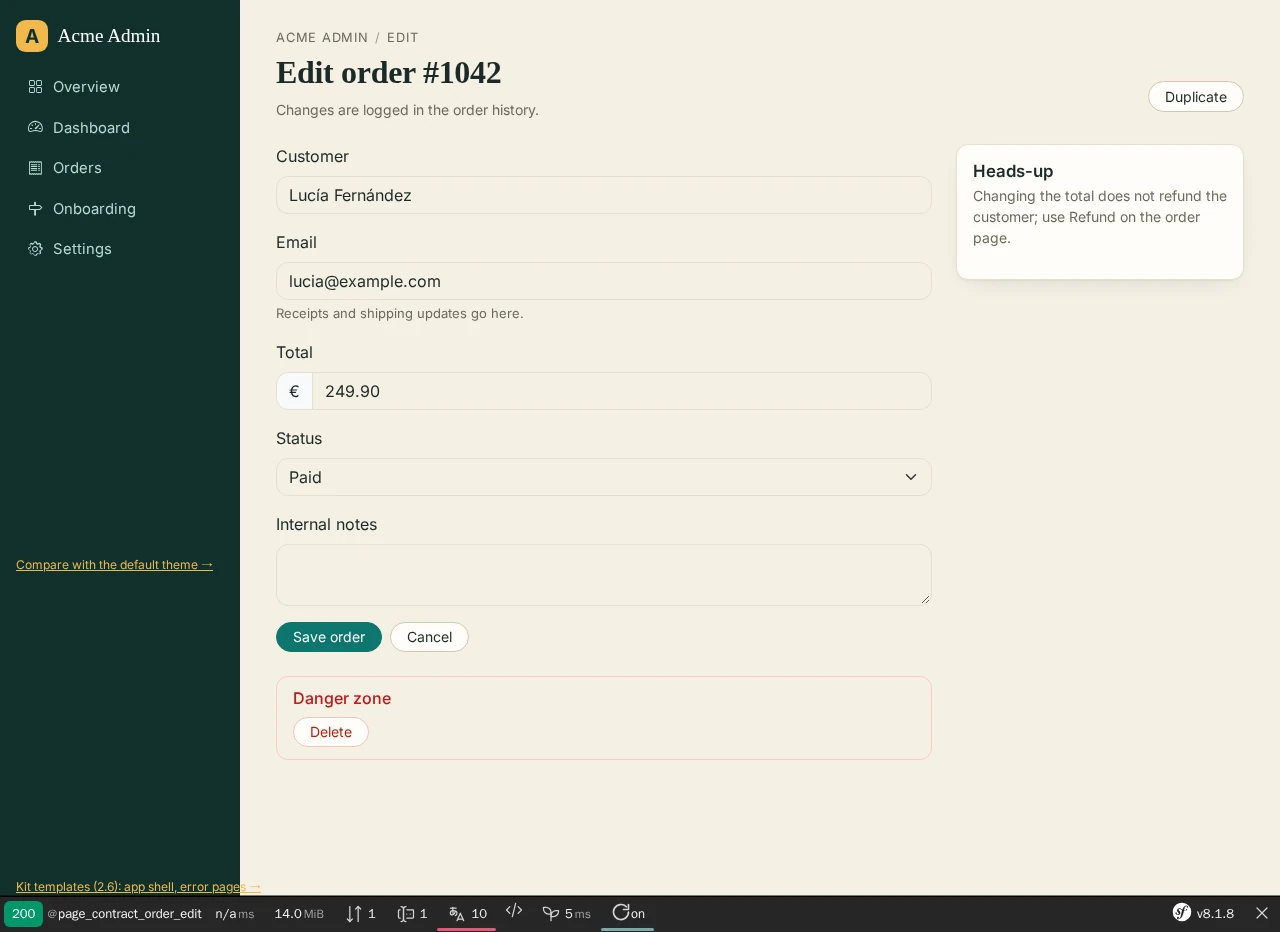
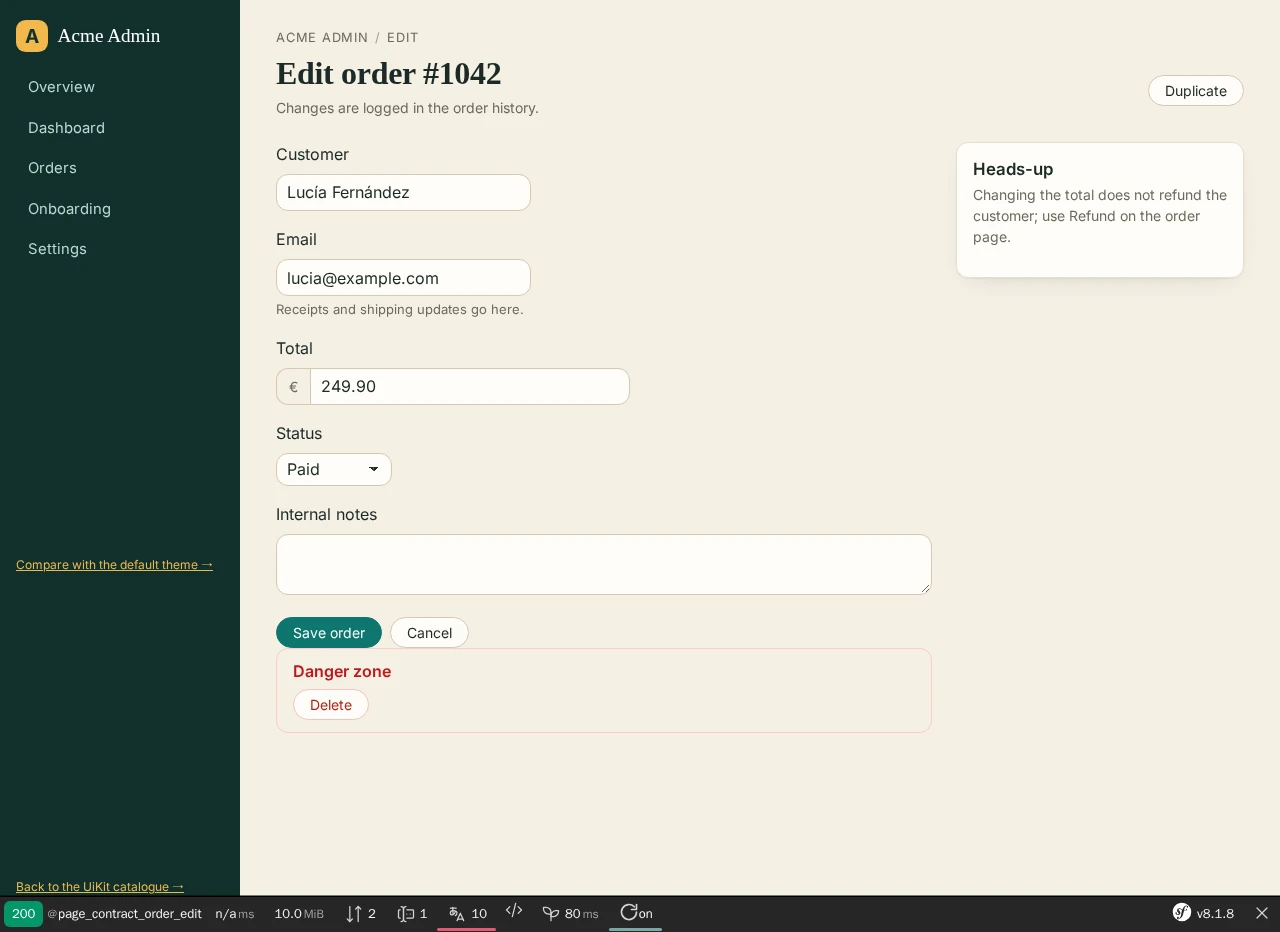
fix(form): stack the label above its control without a CSS framework (#144)
* fix(form): stack the label above its control without a CSS framework

The UiKit form theme (form/nowo_ui_layout.html.twig) never stacked a text,
select or textarea row on its own: the label (no class) and the
`nowo-ui-input` control (inline-block) shared a line, and Bootstrap's
`.form-control` (a block) hid it. 29ce390 (#132, 2.62.0) moved the demo from
Bootstrap + bootstrap_5_layout to this theme with no framework, and the
host-theme form, settings and wizard pages printed "Customer" against its
field, "Total€" with no input group and selects inline.

Every row of the theme now carries `nowo-ui-form-row` (checkbox / radio rows
already did); nowo-ui.css makes the label of a non-check row a block as wide
as its text, --nowo-ui-form-label-gap above the control, at zero
specificity. Money and percent widgets put their symbol in a
`nowo-ui-input-group`. Regression check: label / control geometry on the
host and default theme form pages in page-contract.spec.ts.

* docs(demo): regenerate the page-contract form, settings and wizard screenshots

Taken with the form-row fix, so the three host-theme images show stacked
labels and the money input group again.

diff --git a/demo/symfony8/e2e/tests/page-contract.spec.ts b/demo/symfony8/e2e/tests/page-contract.spec.ts
@@ -77,6 +77,56 @@ test.describe('page contract — host theme', () => {
   });
 });
 
+/**
+ * UiKit 2.66.2 — regression of 2.62.0 (#132, the demo left Bootstrap and bootstrap_5_layout for the UiKit form theme
+ * without a framework): every text / select / textarea row of the UiKit form theme stacks its label above its control,
+ * on the host theme and on the default theme, and the money symbol sits in an input group. Geometry, not a screenshot.
+ */
+const stackedFormPages: Array<{ name: string; path: string }> = [
+  { name: 'host form', path: '/page-contract/orders/1042/edit' },
+  { name: 'host settings', path: '/page-contract/settings' },
+  { name: 'host wizard', path: '/page-contract/onboarding' },
+  { name: 'default form', path: '/page-contract/default/orders/1042/edit' },
+  { name: 'default settings', path: '/page-contract/default/settings' },
+];
+
+test.describe('page contract — form rows stack their label above the control (2.66.2)', () => {
+  for (const { name, path } of stackedFormPages) {
+    test(`${name}: label above its control, left-aligned, not overlapping`, async ({ page }) => {
+      await page.goto(path);
+      const rows = await page.evaluate(() =>
+        Array.from(document.querySelectorAll('form .nowo-ui-form-row:not(.nowo-ui-form-row--check)'))
+          .map((row) => {
+            const label = row.querySelector(':scope > label');
+            const control = row.querySelector(':scope > :is(input, select, textarea, .nowo-ui-input-group, div[id])');
+            if (!label || !control) {
+              return null;
+            }
+            const l = label.getBoundingClientRect();
+            const c = control.getBoundingClientRect();
+            return { label: (label.textContent ?? '').trim(), labelBottom: l.bottom, labelLeft: l.left, controlTop: c.top, controlLeft: c.left };
+          })
+          .filter((row) => row !== null),
+      );
+      expect(rows.length, 'text rows on the page').toBeGreaterThan(0);
+      for (const row of rows) {
+        expect(row!.labelBottom, `${row!.label}: label ends above its control`).toBeLessThanOrEqual(row!.controlTop + 0.5);
+        expect(Math.abs(row!.labelLeft - row!.controlLeft), `${row!.label}: label and control share the left edge`).toBeLessThanOrEqual(1);
+      }
+    });
+  }
+
+  test('host form: the money field puts its currency in an input group', async ({ page }) => {
+    await page.goto('/page-contract/orders/1042/edit');
+    const group = page.locator('.nowo-ui-input-group:has(> #order_total)');
+    await expect(group).toBeVisible();
+    await expect(group.locator('> .nowo-ui-input-group__addon')).toHaveText('€');
+    const [addon, input] = [await group.locator('> .nowo-ui-input-group__addon').boundingBox(), await page.locator('#order_total').boundingBox()];
+    expect(Math.abs(addon!.y - input!.y)).toBeLessThanOrEqual(1);
+    expect(addon!.x + addon!.width).toBeLessThanOrEqual(input!.x + 1);
+  });
+});
+
 test.describe('page contract — validation follow-ups (REQ-UI-003)', () => {
   test('cascade layers: a host utility (@layer utilities) in a slot beats the kit (@layer nowo-ui)', async ({ page }) => {
     await page.goto('/page-contract/dashboard');

diff --git a/src/Resources/public/css/nowo-ui.css b/src/Resources/public/css/nowo-ui.css
@@ -7542,6 +7542,16 @@ li:has(> :is(a, span) + button.nowo-ui-tree__toggle) > :not(a, span, button.nowo
   margin-bottom: var(--nowo-ui-form-label-gap, 0.5rem);
 }
 
+/* 2.66.2: a row of the UiKit form theme (`nowo-ui-form-row`, @NowoUiKit/form/nowo_ui_layout.html.twig) stacks its
+   label above its control on every stack, with no framework class on either: the label is a block as wide as its
+   text (only the text is the click target), --nowo-ui-form-label-gap above the control. Checkbox / radio rows keep
+   the box beside its text. Zero specificity: a host row / label class wins. */
+:where(.nowo-ui-form-row:not(.nowo-ui-form-row--check)) > :where(label) {
+  display: block;
+  inline-size: fit-content;
+  margin-block-end: var(--nowo-ui-form-label-gap, 0.5rem);
+}
+
 .nowo-ui-form__columns {
   display: grid;
   grid-template-columns: repeat(auto-fit, minmax(min(var(--nowo-ui-form-column-min, 12rem), 100%), 1fr));

diff --git a/src/Resources/public/css/nowo-ui.unlayered.css b/src/Resources/public/css/nowo-ui.unlayered.css
@@ -7527,6 +7527,16 @@ li:has(> :is(a, span) + button.nowo-ui-tree__toggle) > :not(a, span, button.nowo
   margin-bottom: var(--nowo-ui-form-label-gap, 0.5rem);
 }
 
+/* 2.66.2: a row of the UiKit form theme (`nowo-ui-form-row`, @NowoUiKit/form/nowo_ui_layout.html.twig) stacks its
+   label above its control on every stack, with no framework class on either: the label is a block as wide as its
+   text (only the text is the click target), --nowo-ui-form-label-gap above the control. Checkbox / radio rows keep
+   the box beside its text. Zero specificity: a host row / label class wins. */
+:where(.nowo-ui-form-row:not(.nowo-ui-form-row--check)) > :where(label) {
+  display: block;
+  inline-size: fit-content;
+  margin-block-end: var(--nowo-ui-form-label-gap, 0.5rem);
+}
+
 .nowo-ui-form__columns {
   display: grid;
   grid-template-columns: repeat(auto-fit, minmax(min(var(--nowo-ui-form-column-min, 12rem), 100%), 1fr));

diff --git a/tests/Unit/PageContract/FormThemeRowSpacingTest.php b/tests/Unit/PageContract/FormThemeRowSpacingTest.php
@@ -9,6 +9,8 @@ use PHPUnit\Framework\TestCase;
 use Symfony\Component\Form\Extension\Core\Type\CheckboxType;
 use Symfony\Component\Form\Extension\Core\Type\FileType;
 use Symfony\Component\Form\Extension\Core\Type\FormType;
+use Symfony\Component\Form\Extension\Core\Type\MoneyType;
+use Symfony\Component\Form\Extension\Core\Type\PercentType;
 use Symfony\Component\Form\Extension\Core\Type\TextType;
 use Symfony\Component\Form\FormError;
 
@@ -44,15 +46,15 @@ final class FormThemeRowSpacingTest extends TestCase
         $template = ['t' => "{% form_theme form '".self::THEME."' %}{{ form_row(form.name) }}{{ form_row(form.agree) }}{{ form_row(form.again) }}{{ form_row(form.dup) }}"];
         $html = PageContractTwig::create($template, [], 'bootstrap5')->render('t', ['form' => $form->createView()]);
 
-        self::assertStringContainsString('<div class="mb-3"><label for="item_name">', $html);
+        self::assertStringContainsString('<div class="nowo-ui-form-row mb-3"><label for="item_name">', $html);
         self::assertMatchesRegularExpression('#<div class="nowo-ui-form-row nowo-ui-form-row--check mb-3">\s*<label class="nowo-ui-check form-check"><input type="checkbox" id="item_agree"#', $html);
         self::assertMatchesRegularExpression('#<div class="mb-3 nowo-ui-form-row nowo-ui-form-row--check">\s*<label class="nowo-ui-check form-check"><input type="checkbox" id="item_again"#', $html);
-        self::assertStringContainsString('<div class="mb-3 wide"><label for="item_dup">', $html);
+        self::assertStringContainsString('<div class="mb-3 wide nowo-ui-form-row"><label for="item_dup">', $html);
         self::assertSame(0, substr_count($html, 'mb-3 mb-3'));
 
-        // custom / none: unchanged (no row class)
+        // custom / none: no slot class, only the kit row class (2.66.2)
         $html = PageContractTwig::create($template, [], 'none')->render('t', ['form' => $form->createView()]);
-        self::assertStringContainsString('<div><label for="item_name">', $html);
+        self::assertStringContainsString('<div class="nowo-ui-form-row"><label for="item_name">', $html);
         self::assertMatchesRegularExpression('#<div class="nowo-ui-form-row nowo-ui-form-row--check">\s*<label class="nowo-ui-check">#', $html);
     }
 
@@ -79,5 +81,46 @@ final class FormThemeRowSpacingTest extends TestCase
             $css = (string) file_get_contents(\dirname(__DIR__, 3).'/src/Resources/public/css/'.$file);
             self::assertStringContainsString("form.nowo-ui-filters[data-nowo-ui-region] > .nowo-ui-filters__field.mb-3 {\n  margin-bottom: 0 !important;\n}", $css, $file);
         }
+    }
+
+    /**
+     * 2.66.2 (regression of 2.62.0, #132): without a CSS framework every row stacks its label above its control. The
+     * row carries `nowo-ui-form-row` once (never twice when the bundle passes it in row_attr) and nowo-ui.css makes
+     * the label of a text row a block; checkbox / radio rows keep the box beside its text.
+     */
+    public function testTextRowsCarryTheKitRowClassAndTheCssStacksTheirLabel(): void
+    {
+        $form = PageContractTwig::forms()->createNamedBuilder('item', FormType::class)
+            ->add('name', TextType::class, ['required' => false, 'row_attr' => ['class' => 'nowo-ui-form-row']])
+            ->getForm();
+        $template = ['t' => "{% form_theme form '".self::THEME."' %}{{ form_row(form.name) }}"];
+        foreach (['none', 'custom', 'tailwind', 'bootstrap5'] as $framework) {
+            $html = PageContractTwig::create($template, [], $framework)->render('t', ['form' => $form->createView()]);
+            self::assertSame(1, substr_count($html, 'nowo-ui-form-row'), $framework);
+        }
+
+        foreach (['nowo-ui.unlayered.css', 'nowo-ui.css'] as $file) {
+            $css = (string) file_get_contents(\dirname(__DIR__, 3).'/src/Resources/public/css/'.$file);
+            self::assertStringContainsString(":where(.nowo-ui-form-row:not(.nowo-ui-form-row--check)) > :where(label) {\n  display: block;\n  inline-size: fit-content;\n  margin-block-end: var(--nowo-ui-form-label-gap, 0.5rem);\n}", $css, $file);
+        }
+    }
+
+    /** 2.66.2: money and percent symbols sit in a kit input group, not as bare text between the label and the input. */
+    public function testMoneyAndPercentWidgetsUseTheInputGroup(): void
+    {
+        $form = PageContractTwig::forms()->createNamedBuilder('item', FormType::class)
+            ->add('total', MoneyType::class, ['required' => false, 'currency' => 'EUR'])
+            ->add('rate', PercentType::class, ['required' => false])
+            ->add('plain', PercentType::class, ['required' => false, 'symbol' => false])
+            ->getForm();
+        $template = ['t' => "{% form_theme form '".self::THEME."' %}{{ form_widget(form.total) }}|{{ form_widget(form.rate) }}|{{ form_widget(form.plain) }}"];
+        $html = PageContractTwig::create($template, [], 'custom')->render('t', ['form' => $form->createView()]);
+        [$total, $rate, $plain] = explode('|', $html);
+
+        self::assertMatchesRegularExpression('#^<div class="nowo-ui-input-group">(<span class="nowo-ui-input-group__addon">€</span>)?<input type="text" id="item_total"[^>]*class="nowo-ui-input"[^>]*/>(<span class="nowo-ui-input-group__addon">€</span>)?</div>$#', trim($total));
+        self::assertSame(1, substr_count($total, 'nowo-ui-input-group__addon'));
+        self::assertMatchesRegularExpression('#^<div class="nowo-ui-input-group"><input type="text" id="item_rate"[^>]*/><span class="nowo-ui-input-group__addon">%</span>\s*</div>$#', trim($rate));
+        self::assertStringNotContainsString('nowo-ui-input-group', $plain);
+        self::assertStringContainsString('type="text" id="item_plain"', $plain);
     }
 }

diff --git a/tests/Unit/PageContract/FormThemeErrorsTest.php b/tests/Unit/PageContract/FormThemeErrorsTest.php
@@ -62,15 +62,15 @@ final class FormThemeErrorsTest extends TestCase
 
         // Defaults: Symfony's row markup and order (label, errors, widget, help); check rows keep help, errors.
         $html = PageContractTwig::create($template, [], 'none')->render('t', ['form' => $form->createView()]);
-        self::assertMatchesRegularExpression('#<div><label for="item_name">Name</label><ul[^>]*><li id="item_name_error1">Bad name</li></ul><input type="text"[^>]*aria-describedby="item_name_help[^>]*/><div id="item_name_help" class="help-text">Short</div></div>#', $html);
+        self::assertMatchesRegularExpression('#<div class="nowo-ui-form-row"><label for="item_name">Name</label><ul[^>]*><li id="item_name_error1">Bad name</li></ul><input type="text"[^>]*aria-describedby="item_name_help[^>]*/><div id="item_name_help" class="help-text">Short</div></div>#', $html);
         self::assertMatchesRegularExpression('#<div class="nowo-ui-form-row nowo-ui-form-row--check">.*</label><div id="item_agree_help"[^>]*>Read it</div><ul[^>]*><li id="item_agree_error1">Tick it</li></ul></div>#s', $html);
 
         // Host slots + theme.form_errors_after_widget: row / label classes, errors right after the widget.
         $html = PageContractTwig::create($template, ['classes' => ['form_row' => 'field', 'form_row_check' => 'field-check', 'form_label' => 'field__label'], 'form_errors_after_widget' => true], 'none')->render('t', ['form' => $form->createView()]);
-        self::assertMatchesRegularExpression('#<div class="field"><label class="field__label" for="item_name">Name</label><input type="text"[^>]*/><ul[^>]*><li id="item_name_error1">Bad name</li></ul><div id="item_name_help"#', $html);
+        self::assertMatchesRegularExpression('#<div class="nowo-ui-form-row field"><label class="field__label" for="item_name">Name</label><input type="text"[^>]*/><ul[^>]*><li id="item_name_error1">Bad name</li></ul><div id="item_name_help"#', $html);
         self::assertMatchesRegularExpression('#<div class="nowo-ui-form-row nowo-ui-form-row--check field-check">.*</label><ul[^>]*><li id="item_agree_error1">Tick it</li></ul><div id="item_agree_help"#s', $html);
         // A class the row already has is not added twice.
-        self::assertStringContainsString('<div class="extra field"><label class="field__label" for="item_dup">', $html);
+        self::assertStringContainsString('<div class="extra field nowo-ui-form-row"><label class="field__label" for="item_dup">', $html);
     }
 
     public function testPasswordToggleBridge(): void

diff --git a/src/Theme/ThemeSlots.php b/src/Theme/ThemeSlots.php
@@ -245,7 +245,8 @@ final class ThemeSlots
         // Form rows and labels (2.10, UiKit form theme `form_row` / `checkbox_row` and `form_label`): no class of
         // their own, so a host adds its row spacing / label style without a form theme. 2.15.4: Bootstrap rows get
         // `mb-3` like bootstrap_5_layout (text and checkbox rows alike; a class the row already has is not added
-        // twice); the other stacks rely on the form flex gap of nowo-ui.css
+        // twice); the other stacks rely on the form flex gap of nowo-ui.css. 2.66.2: the theme also adds its own row
+        // hook `nowo-ui-form-row` to every row, on which nowo-ui.css stacks the label above the control
         'form_row' => ['', ['bootstrap' => 'mb-3']],
         // 2.10.1: checkbox / radio rows (`checkbox_row`); separate from form_row, whose column utilities centre them
         'form_row_check' => ['', ['bootstrap' => 'mb-3']],

diff --git a/docs/CHANGELOG.md b/docs/CHANGELOG.md
@@ -159,6 +159,17 @@ and this project adheres to [Semantic Versioning](https://semver.org/).
 
 - `CookieListingPreferenceStore::load()` now has a PHPDoc description and its `@return` array shape, so `make validate-phpdoc` passes.
 - `docs/UPGRADING.md`: the duplicated "To 2.61.0" and "To 2.6.0" sections are merged into one each, keeping all their text.
+- Form theme `@NowoUiKit/form/nowo_ui_layout.html.twig` without a CSS framework (`custom`, `none`, and the default theme): a
+  row's label now sits above its control instead of on the same line, and a money / percent field shows its symbol in
+  an input group (`nowo-ui-input-group`, addon `nowo-ui-input-group__addon`) instead of as bare text between the label
+  and the input. Every row of the theme now carries `nowo-ui-form-row` (checkbox / radio rows already did), and
+  `nowo-ui.css` makes the label of a text, select or textarea row a block as wide as its text, `--nowo-ui-form-label-gap`
+  above the control (zero specificity, so a host row or label class still wins). The kit never stacked these rows on
+  its own: Bootstrap's `.form-control` (a block) did. It showed when 29ce390 (#132, 2.62.0, "every UiKit showcase on the
+  demo platform shell") moved the demo from Bootstrap and `bootstrap_5_layout` to this theme with no framework: the
+  host-theme form, settings and wizard pages printed "Customer" against its field, "Total€" with no group and selects
+  inline. The `/page-contract/default/…` default-theme pages had the same inline rows before. Regression check:
+  label / control geometry in `demo/symfony8/e2e/tests/page-contract.spec.ts`.
 
 ## [2.66.1] - 2026-11-22
 

diff --git a/docs/THEME_SLOTS.md b/docs/THEME_SLOTS.md
@@ -481,7 +481,8 @@ slot replaces it instead of adding to it); `form_actions` lost its `mt-3` / `mt-
 `--nowo-ui-form-actions-gap` below the last row (also when rendered after the `</form>`); new `form_columns` slot
 (`nowo-ui-form__columns`): side-by-side fields on an auto-fit grid, `--nowo-ui-form-column-gap` between columns
 (`--nowo-ui-form-column-min` per column); `.form-label` / `.nowo-ui-form__label` sit `--nowo-ui-form-label-gap` above
-their control. Tokens in [THEMING](THEMING.md#default-theme-polish-tokens-22).
+their control. Rows of the UiKit form theme (`nowo-ui-form-row`, every row since 2.66.2) stack their label the same
+way on every stack, with no class on the label. Tokens in [THEMING](THEMING.md#default-theme-polish-tokens-22).
 
 `locale_tabs_nav` *(2.5.3)* is the tab list of the `locale_tabs` partial: the `tabs` classes without their bottom
 margin (`mb-3` by default, or whatever margin a host puts on `tabs`), because the partial spaces the list from the
